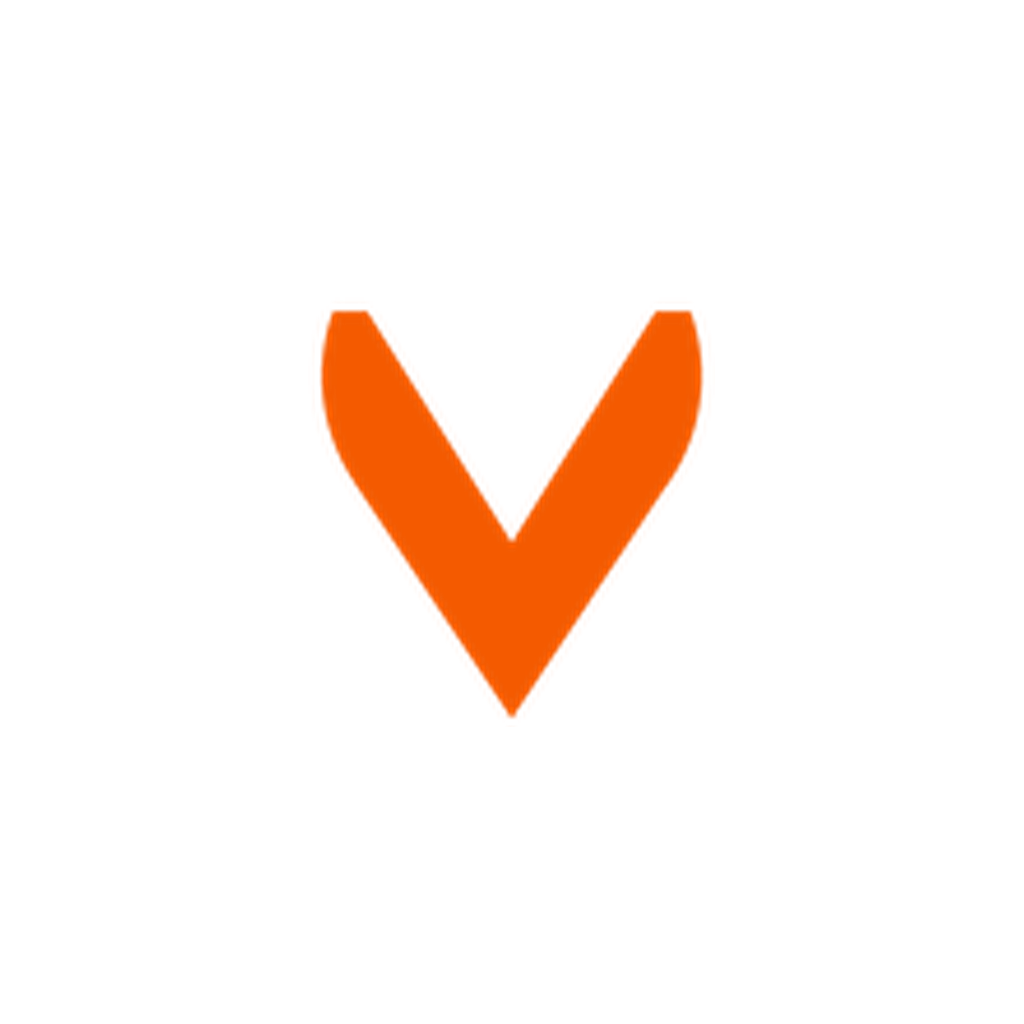
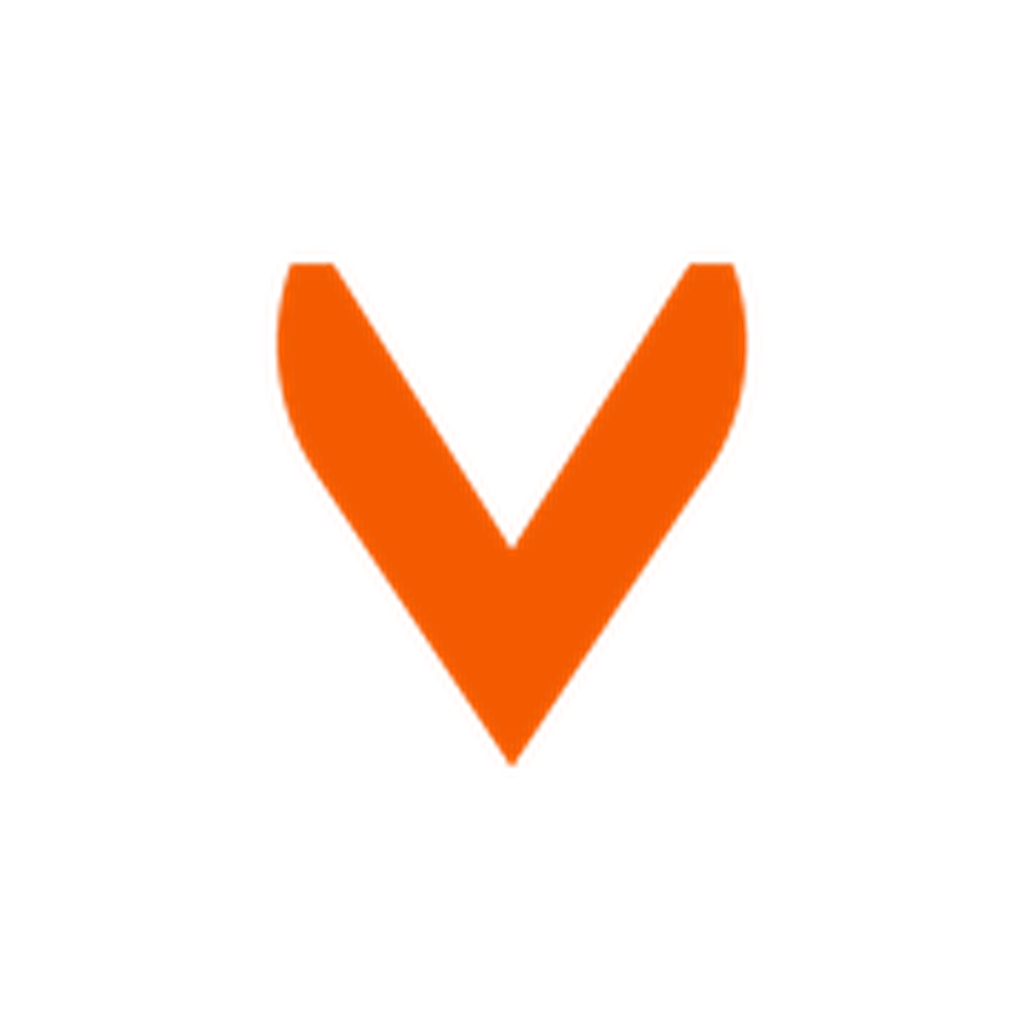
Build the mobile app as com.jovo.app and regenerate android/
Nothing has been published, so no store listing or existing install breaks.
Changes the applicationId, namespace, bundleIdentifier, slug, scheme,
rootProject.name, app_name, and the Kotlin package path to com/jovo/app.
android/ was regenerated with `expo prebuild --clean` rather than hand-edited.

Regeneration resets three deliberate settings that have no app.json equivalent:
release minification and resource shrinking, the dev-client network inspector,
and -- worst of the three -- it re-adds the debug keystore as the *release*
signing config. scripts/post-prebuild.py puts all three back and is idempotent;
it has to be run after every future prebuild.

The native splash uses the mark rather than the wordmark. Android 12+ masks the
splash icon to a circle and shows only the inner two thirds, which would have
clipped "JOVO" to "OV". The full wordmark still appears on the JS splash that
follows it.

Regenerating also surfaced that the committed android/ predated expo-camera:
CAMERA is genuinely needed for barcode scanning, and RECORD_AUDIO, which
expo-camera pulls in but nothing uses, is added to the blockedPermissions list
that already expresses that intent.

diff --git a/apps/mobile/android/app/src/main/java/com/jovo/app/MainActivity.kt b/apps/mobile/android/app/src/main/java/com/jovo/app/MainActivity.kt
@@ -1,4 +1,4 @@
-package com.wasel.app
+package com.jovo.app
 import expo.modules.splashscreen.SplashScreenManager
 
 import android.os.Build

diff --git a/apps/mobile/android/app/src/main/java/com/jovo/app/MainApplication.kt b/apps/mobile/android/app/src/main/java/com/jovo/app/MainApplication.kt
@@ -1,4 +1,4 @@
-package com.wasel.app
+package com.jovo.app
 
 import android.app.Application
 import android.content.res.Configuration

diff --git a/apps/mobile/scripts/post-prebuild.py b/apps/mobile/scripts/post-prebuild.py
@@ -1,0 +1,65 @@
+"""Re-apply the android/ settings that `expo prebuild` resets.
+
+`expo prebuild --clean` regenerates android/ from the Expo template, which
+silently drops three deliberate choices that have no app.json equivalent. Run
+this after every prebuild, or the next release build will quietly lose them.
+
+Adopting `expo-build-properties` would let the gradle.properties values live in
+app.json and survive prebuild on their own; the release signingConfig would
+still need this script.
+"""
+import io
+import os
+
+HERE = os.path.dirname(os.path.abspath(__file__))
+ANDROID = os.path.normpath(os.path.join(HERE, "..", "android"))
+
+
+def patch(path, edits):
+    """Apply (marker, old, new) edits, skipping any already applied.
+
+    `marker` is what the file looks like once the edit has landed. Checking it
+    first keeps the script idempotent even when `old` is a substring of `new`,
+    which is the case for the inserted gradle.properties lines.
+    """
+    full = os.path.join(ANDROID, path)
+    text = io.open(full, encoding="utf-8").read()
+    for marker, old, new in edits:
+        if (marker in text) if new else (marker not in text):
+            continue
+        if old not in text:
+            raise SystemExit(
+                "post-prebuild: pattern not found in %s:\n%s" % (path, old)
+            )
+        text = text.replace(old, new)
+    io.open(full, "w", encoding="utf-8", newline="\n").write(text)
+    print("patched", path)
+
+
+# R8 and resource shrinking stay on for release; the dev-client network
+# inspector stays off so a dev build cannot expose request traffic.
+patch(
+    "gradle.properties",
+    [
+        (
+            "android.enableMinifyInReleaseBuilds=true",
+            "android.enablePngCrunchInReleaseBuilds=true\n",
+            "android.enablePngCrunchInReleaseBuilds=true\n"
+            "android.enableMinifyInReleaseBuilds=true\n"
+            "android.enableShrinkResourcesInReleaseBuilds=true\n",
+        ),
+        (
+            "EX_DEV_CLIENT_NETWORK_INSPECTOR=false",
+            "EX_DEV_CLIENT_NETWORK_INSPECTOR=true",
+            "EX_DEV_CLIENT_NETWORK_INSPECTOR=false",
+        ),
+    ],
+)
+
+# A release APK must not be signed with the checked-in debug keystore.
+RELEASE_DEBUG_SIGNING = (
+    "            // Caution! In production, you need to generate your own keystore file.\n"
+    "            // see https://reactnative.dev/docs/signed-apk-android.\n"
+    "            signingConfig signingConfigs.debug\n"
+)
+patch("app/build.gradle", [(RELEASE_DEBUG_SIGNING, RELEASE_DEBUG_SIGNING, "")])

diff --git a/apps/mobile/scripts/generate-logo.py b/apps/mobile/scripts/generate-logo.py
@@ -207,9 +207,19 @@ if __name__ == "__main__":
     # Store icon: the mark on white, since a wordmark is unreadable at 48px.
     save(centred(mark(**V), 1024, 0.62, ORANGE, WHITE), store, "app-icon-1024.png")
 
+    # Native splash icon. Android 12+ masks this to a circle and shows only the
+    # inner two thirds, so the wordmark cannot go here -- it would be clipped to
+    # "OV". The mark carries the splash; the wordmark shows on the JS splash
+    # that follows.
+    save(
+        centred(mark(**V), 1024, 0.44, ORANGE, (0, 0, 0, 0)),
+        store,
+        "splash-icon.png",
+    )
+
     # Adaptive foreground: content kept inside the centre 66% safe zone.
     save(
-        centred(mark(**V), 1024, 0.42, ORANGE, (0, 0, 0, 0)),
+        centred(mark(**V), 1024, 0.52, ORANGE, (0, 0, 0, 0)),
         store,
         "adaptive-icon-foreground.png",
     )

diff --git a/docs/progress.md b/docs/progress.md
@@ -537,3 +537,107 @@ The token layer and the type system everything downstream will consume. No scree
 
 - The login screen and sidebar changed surface colour as a direct consequence of tokenisation — the dark gradients were hardcoded values with no equivalent in a light-only system. The remaining shell work (sidebar structure and density) is B3.
 - Three inline `style` objects carrying colour or font size were replaced with classes. The remaining inline styles are layout nudges only and are cleaned up in B4.
+
+## 2026-08-12: B2 — JOVO name, mark, and native identifiers (mobile only)
+
+The mobile app now calls itself JOVO everywhere a person can see, and the Android
+project is built as `com.jovo.app`. Scope was `apps/mobile` only; `apps/admin`
+was deliberately not touched, and no file outside `apps/mobile` changed except one
+`.gitignore` line for `__pycache__`.
+
+Two commits, in this order, so the risky half has a clean fallback:
+
+1. `df6a922` — user-facing rename and logo assets.
+2. (this commit) — native identifiers and the regenerated `android/`.
+
+### Completed
+
+- **User-facing rename only.** Screen text, both locale trees, and app metadata.
+  Database tables, model names, API routes, i18n *key* names, the internal
+  `TasawaQApp` component, the `tasawaq.push-token` key and the
+  `tasawaq-location-map` broadcast channel are all unchanged, as are the
+  `wasel_access_token` / `wasel_refresh_token` / `wasel_language` storage keys —
+  renaming those would sign every existing user out for a change none of them
+  would see. The supermarket vertical reads `JOVO MARKET` / `جوفو ماركت`.
+- **The logo is generated, not drawn** (`apps/mobile/scripts/generate-logo.py`),
+  so every size comes from one source of truth and can be re-rendered. The V's
+  outer edges are tangents to a round head and converge on a single point that
+  drops below the baseline — a location pin's profile. The shoulders are cut flat
+  above the head's widest point; letting them curl over turns the shape into a
+  heart, which four intermediate renders confirmed before this one was chosen.
+- **Different assets for different slots, deliberately.** The wordmark is for
+  in-app use. The app icon and the *native* splash use the mark alone: four
+  letters are unreadable at 48px, and Android 12+ masks the splash icon to a
+  circle showing only the inner two thirds, which would have clipped the wordmark
+  to "OV". The full wordmark still appears on the JS splash that follows.
+- **Native identifiers**: `com.jovo.app` (namespace, applicationId,
+  bundleIdentifier), slug `jovo`, scheme `jovo`, `rootProject.name` and
+  `app_name` `JOVO`, Kotlin package path `com/jovo/app/`. `android/` was
+  regenerated with `expo prebuild --platform android --clean`.
+- **Splash treatment** is now white with the orange mark, replacing `#F5FAFC` in
+  `colors.xml`, `styles.xml`, and the JS splash in `App.tsx`.
+- **An adaptive icon was added.** Without one, the launcher scales and crops the
+  full-bleed 1024 icon badly; the foreground is now sized to the centre safe zone.
+
+### Regeneration side effects that were corrected, not accepted
+
+`expo prebuild --clean` resets the whole directory, and the previous `android/`
+carried hand-made choices with no app.json equivalent. These are re-applied by
+`apps/mobile/scripts/post-prebuild.py`, **which must be run after every future
+prebuild**:
+
+- `android.enableMinifyInReleaseBuilds` and
+  `android.enableShrinkResourcesInReleaseBuilds` were dropped; both restored.
+- `EX_DEV_CLIENT_NETWORK_INSPECTOR` was flipped back to `true`; restored to
+  `false`.
+- The template re-added `signingConfig signingConfigs.debug` to the **release**
+  build type, which would sign a release APK with the checked-in debug keystore.
+  Removed again.
+
+Adopting `expo-build-properties` would move the gradle.properties values into
+app.json and let them survive prebuild unaided. That is a dependency change and
+was left out of B2.
+
+### Two changes that came from regeneration and are worth a decision
+
+- **`CAMERA` and `RECORD_AUDIO` permissions appeared.** The committed `android/`
+  predated `expo-camera`, so it was stale rather than minimal. `CAMERA` is real —
+  barcode scanning. `RECORD_AUDIO` is pulled in by `expo-camera` and is not used,
+  so it was added to the existing `blockedPermissions` list, matching the intent
+  already expressed there. Worth confirming that barcode scanning still works on
+  a real device.
+- **`android:usesCleartextTraffic="false"` is no longer emitted** into the main
+  manifest. Setting `android.usesCleartextTraffic: false` in app.json does not
+  produce the attribute. The effective behaviour is unchanged, because the
+  platform default is already `false` above API 28 and the debug manifest still
+  overrides it to `true`, but the intent is now implicit rather than written down.
+
+### Verified
+
+- `npm run typecheck` clean; mobile tests 23 pass, 0 fail.
+- **Verified in a real browser in both languages** against a running API, at the
+  login screen: the JOVO wordmark renders in orange, correctly oriented, and
+  **does not mirror in RTL** — the J stays on the left in Arabic exactly as in
+  English, while the surrounding layout flips correctly (labels right-aligned,
+  `+970` on the right). The browser tab title reads `JOVO`, confirming the
+  metadata rename reached the web target.
+- **Small sizes were checked before the shape was committed to**, by rendering
+  the wordmark at 48, 32, 24 and 16px and the icon at 192, 96, 72, 48, 36 and
+  24px. The wordmark stays readable to 16px; the mark stays legible to 24px.
+- **Both square assets were checked under a circular mask**, which is how
+  Android 12+ draws the splash icon and how most launchers draw the icon. Neither
+  is clipped.
+- `expo prebuild` output inspected file by file against the previous `android/`;
+  the only content differences are the identifiers, the splash colours, and the
+  manifest changes listed above.
+
+### What could NOT be verified in this environment
+
+- **Anything behind the login screen.** Reaching the customer home, the
+  supermarket header (`JOVO MARKET` / `جوفو ماركت`), and the admin badge requires
+  authenticating, and entering an account password is not something this agent
+  will do. The strings and the image sources are wired correctly and typecheck,
+  but nobody has *looked* at those three screens. **Check them on the device.**
+- **The app icon and splash on a real launcher.** They were verified as images
+  and under a simulated circular mask, not on a device.
+- **iOS entirely.** Only `android/` was regenerated; `ios/` is not in the repo.
